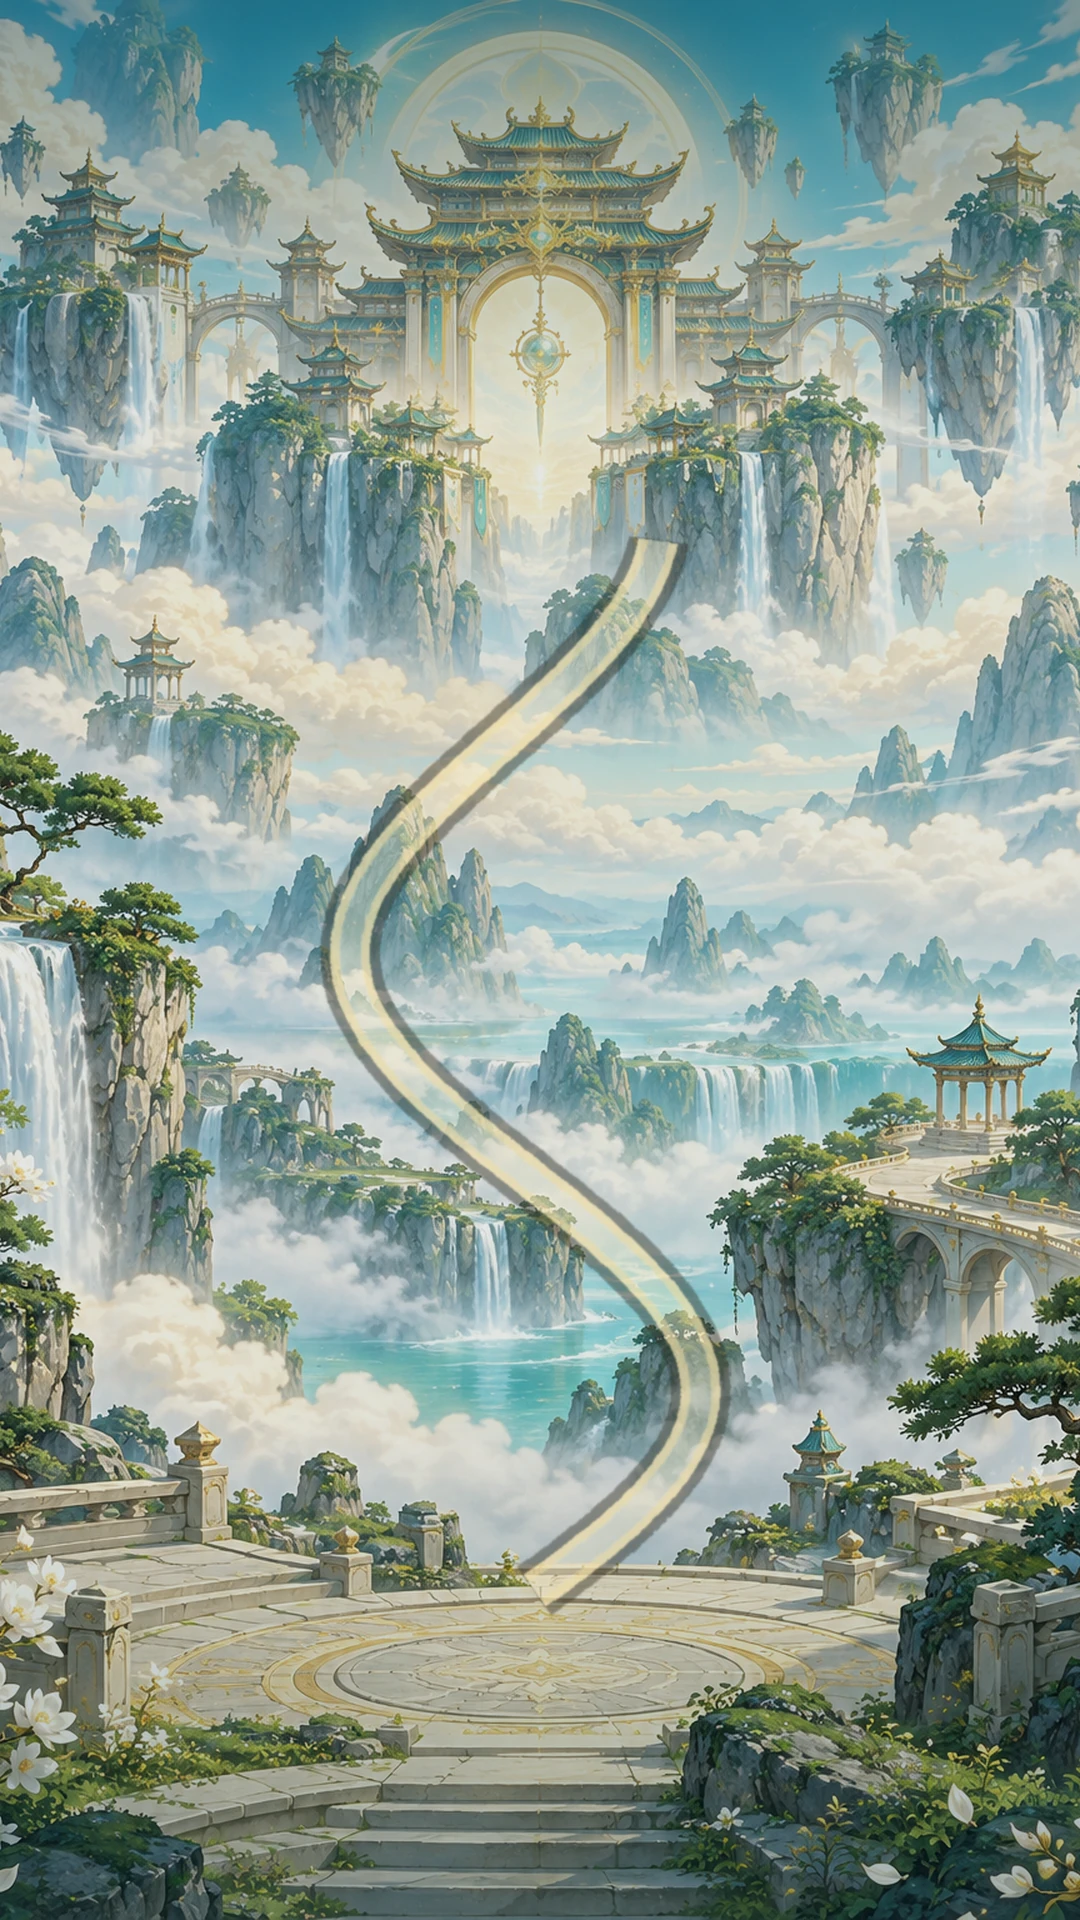
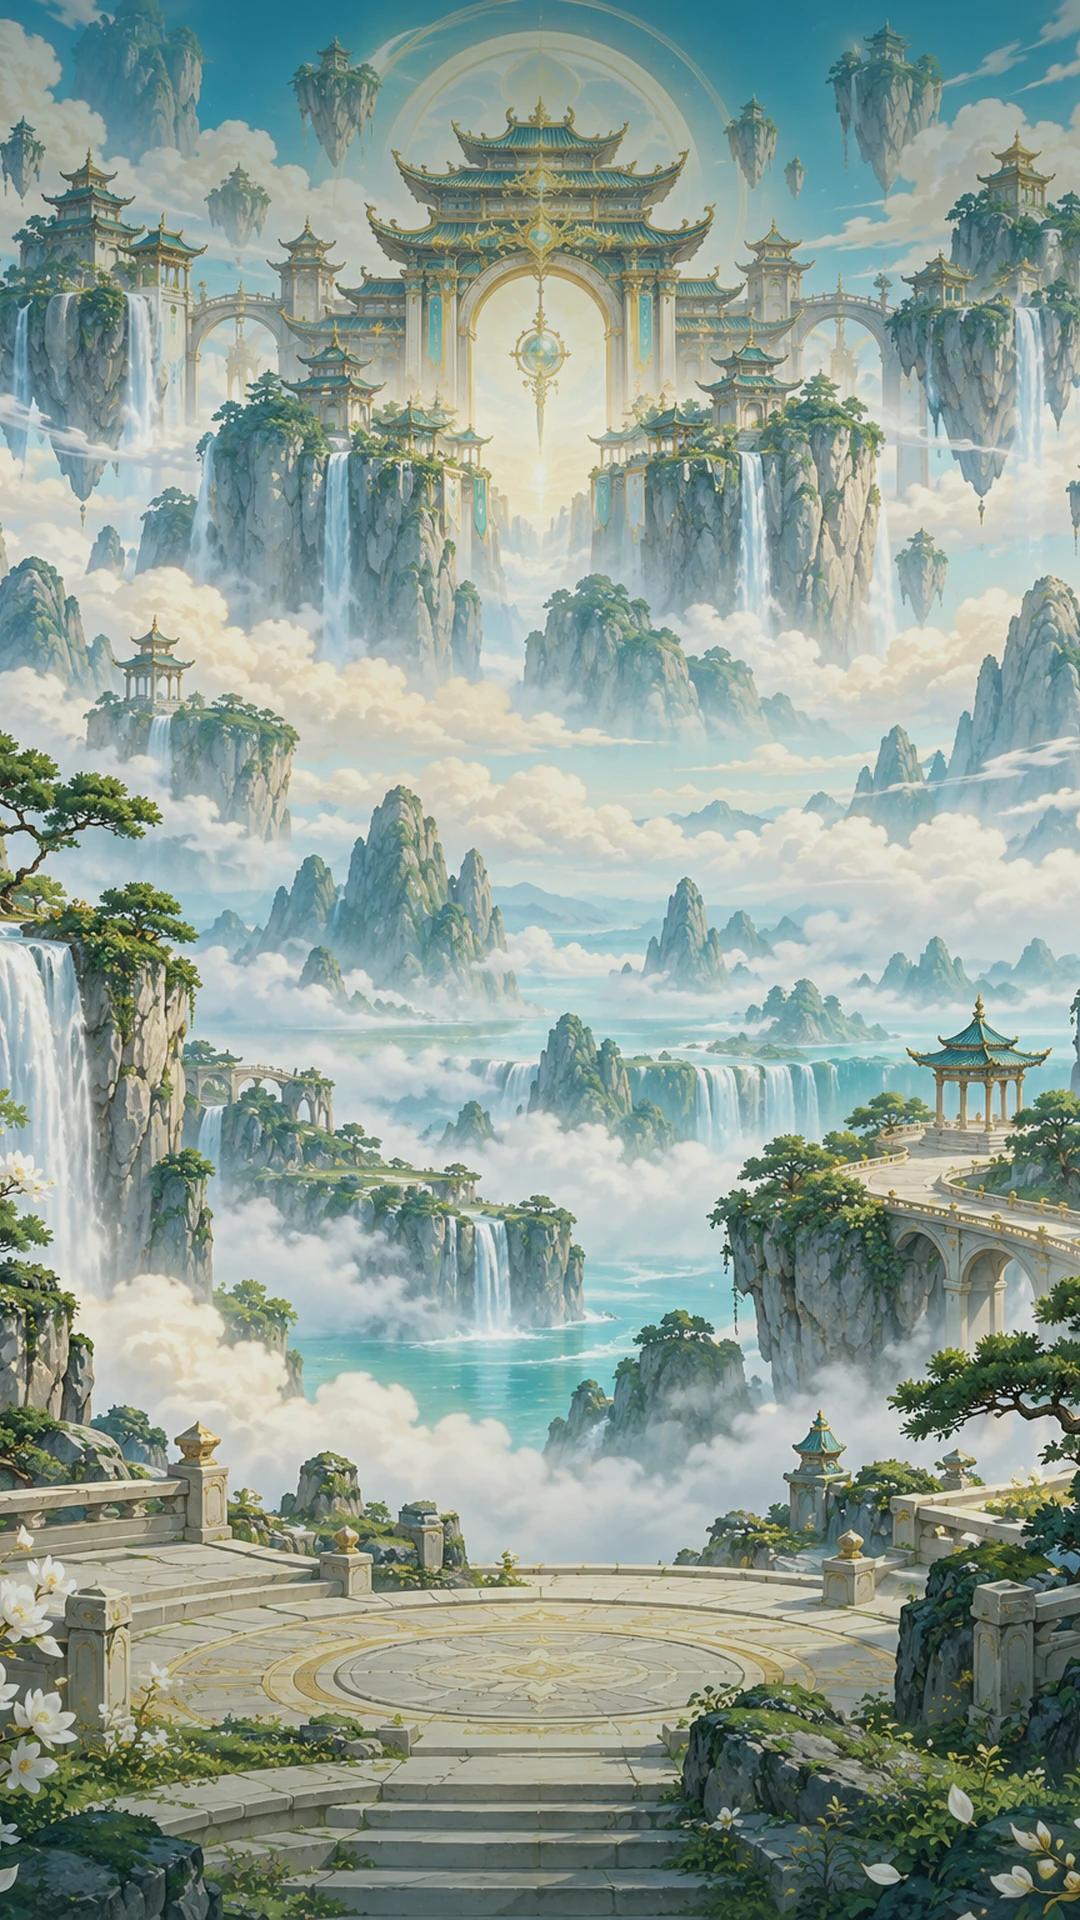
Simplify map screen and HUD

Changed region(s): [[0.275, 0.2812, 0.6722, 0.8438]]

diff --git a/client/app/map.tsx b/client/app/map.tsx
@@ -4,10 +4,9 @@ import { useRouter } from 'expo-router';
 import { Image } from 'expo-image';
 import { ART, Artwork } from '../src/assets';
 import { BottomNav, TopHud } from '../src/components/Chrome';
-import { ArtPanel, GameButton, ScreenFrame, TitleBanner } from '../src/components/Art';
+import { ArtPanel, ScreenFrame } from '../src/components/Art';
 import { Notice } from '../src/components/Notice';
 import { getHighestUnlocked, getLevelStars, useGameStore } from '../src/state/gameStore';
-import { completedCount } from '../src/game/save';
 import { colors, type } from '../src/theme';
 
 export default function MapScreen() {
@@ -17,13 +16,11 @@ export default function MapScreen() {
   const setNotice = useGameStore((state) => state.setNotice);
   const startLevel = useGameStore((state) => state.startLevel);
   const unlocked = getHighestUnlocked(save);
-  const completed = completedCount(save.levels);
   const totalStars = save.levels.reduce((sum, level) => sum + level.stars, 0);
 
   const openLevel = async (levelId: number) => {
     if (await startLevel(levelId)) router.push(`/game/${levelId}` as never);
   };
-  const continueGame = () => openLevel(save.active?.levelId ?? unlocked);
   const nav = (id: string) => {
     if (id !== 'map') {
       setNotice('Sắp ra mắt');
@@ -34,7 +31,6 @@ export default function MapScreen() {
   return (
     <ScreenFrame background="bgMap">
       <TopHud onAccount={() => router.push('/account')} />
-      <TitleBanner title="TIÊN LỘ" />
       <View style={styles.mapArea}>
         <ArtPanel art="chapterCard" style={styles.chapter}>
           <Text style={styles.chapterEyebrow}>CHƯƠNG THỬ NGHIỆM</Text>
@@ -63,11 +59,6 @@ export default function MapScreen() {
           );
         })}
       </View>
-      <GameButton
-        title={completed === 3 ? 'CHƠI LẠI BOSS' : 'TIẾP TỤC'}
-        onPress={() => void continueGame()}
-        style={styles.continue}
-      />
       <BottomNav active="map" onSelect={nav} />
       <Notice message={notice} onDismiss={() => setNotice('')} />
     </ScreenFrame>
@@ -94,5 +85,4 @@ const styles = StyleSheet.create({
   stageThree: { left: '50%', bottom: '67%' },
   stageNumber: { color: colors.ivory, fontSize: 26, fontWeight: '900', textShadowColor: '#102f2d', textShadowRadius: 5 },
   stageStars: { position: 'absolute', bottom: -3, color: colors.goldBright, fontSize: 10, letterSpacing: -1 },
-  continue: { width: '70%', alignSelf: 'center', marginTop: 3, marginBottom: 2, minHeight: 51 },
 });

diff --git a/client/src/components/Chrome.tsx b/client/src/components/Chrome.tsx
@@ -14,9 +14,9 @@ export function TopHud({ onAccount }: { onAccount: () => void }) {
         <Art image="avatar" style={StyleSheet.absoluteFill} />
         <Art image="avatarFrame" style={StyleSheet.absoluteFill} />
       </View>
-      <HudStat image="iconJade" value="—" />
-      <HudStat image="iconCoin" value="—" />
-      <HudStat image="iconBolt" value="—" />
+      <HudStat image="iconJade" value="0" />
+      <HudStat image="iconCoin" value="0" />
+      <HudStat image="iconBolt" value="0" />
       <Pressable accessibilityRole="button" accessibilityLabel="Tài khoản" onPress={onAccount} style={styles.menu}>
         <Art image="iconMenu" style={styles.menuImage} />
       </Pressable>

diff --git a/tools/generate_ui_assets.py b/tools/generate_ui_assets.py
@@ -8,8 +8,7 @@ Run with: python3 tools/generate_ui_assets.py
 """
 
 from pathlib import Path
-from math import sin, pi
-from PIL import Image, ImageDraw, ImageEnhance, ImageFilter, ImageFont, ImageOps
+from PIL import Image, ImageDraw, ImageEnhance, ImageFont, ImageOps
 
 
 ROOT = Path(__file__).resolve().parents[1]
@@ -45,21 +44,7 @@ def portrait_background(kind):
         for x in range(1080):
             p[x, y] = color
     crop = Image.alpha_composite(crop, tint)
-    if kind == "map":
-        # A deliberate winding route lets the three dynamic stage nodes sit on the art.
-        route = Image.new("RGBA", crop.size)
-        d = ImageDraw.Draw(route)
-        pts = []
-        for i in range(160):
-            t = i / 159
-            x = 515 + 195 * sin(t * 2.4 * pi + 0.1) * (1 - .25 * t)
-            y = 1590 - t * 1050
-            pts.append((round(x), round(y)))
-        d.line(pts, fill=(45, 42, 30, 110), width=59, joint="curve")
-        d.line(pts, fill=(242, 224, 171, 184), width=40, joint="curve")
-        d.line(pts, fill=(254, 241, 203, 90), width=21, joint="curve")
-        crop = Image.alpha_composite(crop, route.filter(ImageFilter.GaussianBlur(1)))
-    elif kind == "realm":
+    if kind == "realm":
         glow = Image.new("RGBA", crop.size)
         d = ImageDraw.Draw(glow)
         for radius in range(470, 170, -18):
